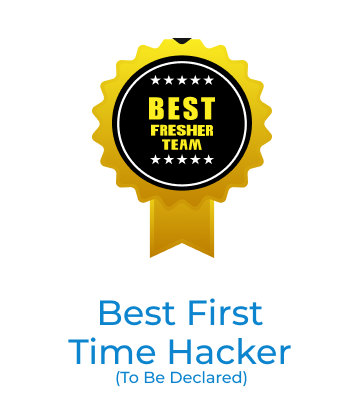
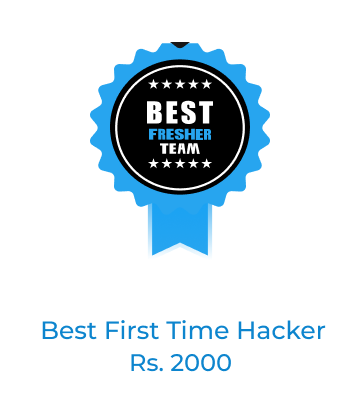
added prizes

Changed region(s): [[0.2418, 0.0929, 0.7555, 0.619], [0.0907, 0.7119, 0.9066, 0.9286]]

diff --git a/src/technica/technica-components/prizes/prizes.js b/src/technica/technica-components/prizes/prizes.js
@@ -1,10 +1,3 @@
 import './prizes.scss'
- import './first-prize.svg'
-import './prize-upper-card-section.svg'
-import './girlsteam.png'
-import './hackerfirst.png'
-import './first-prize.png'
-import './second-prize.png'
-import './third-prize.png'
-import './fresher-prize.png'
-import './girls-prize.png'
+ 
+require.context('.', true, /\.(png|svg|jpg)$/)
